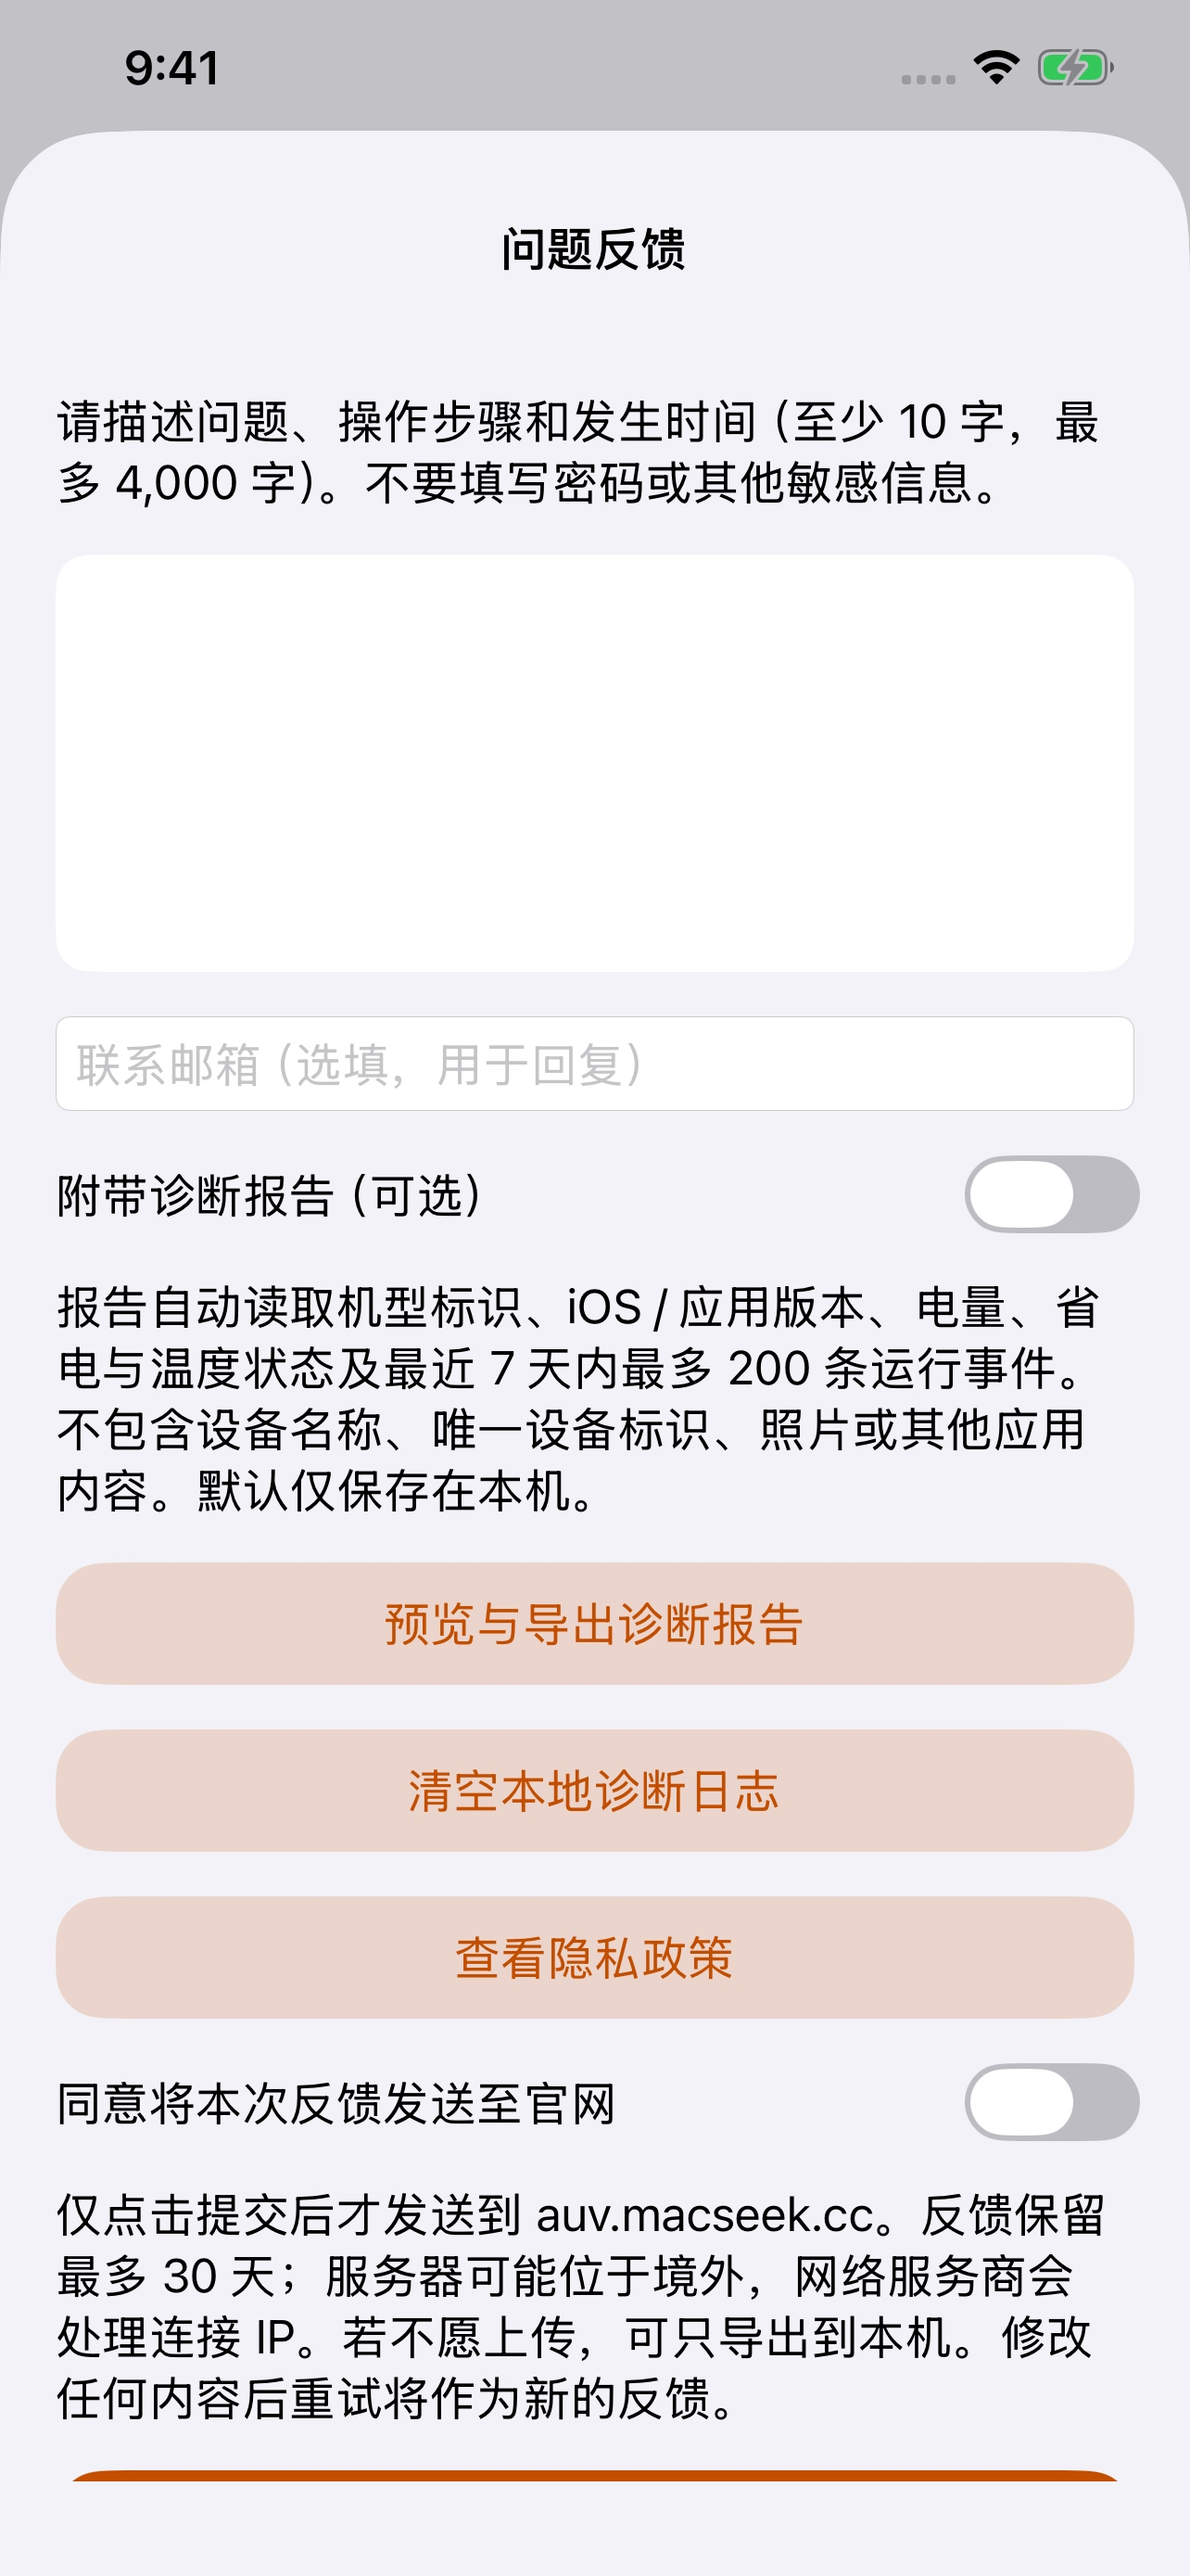
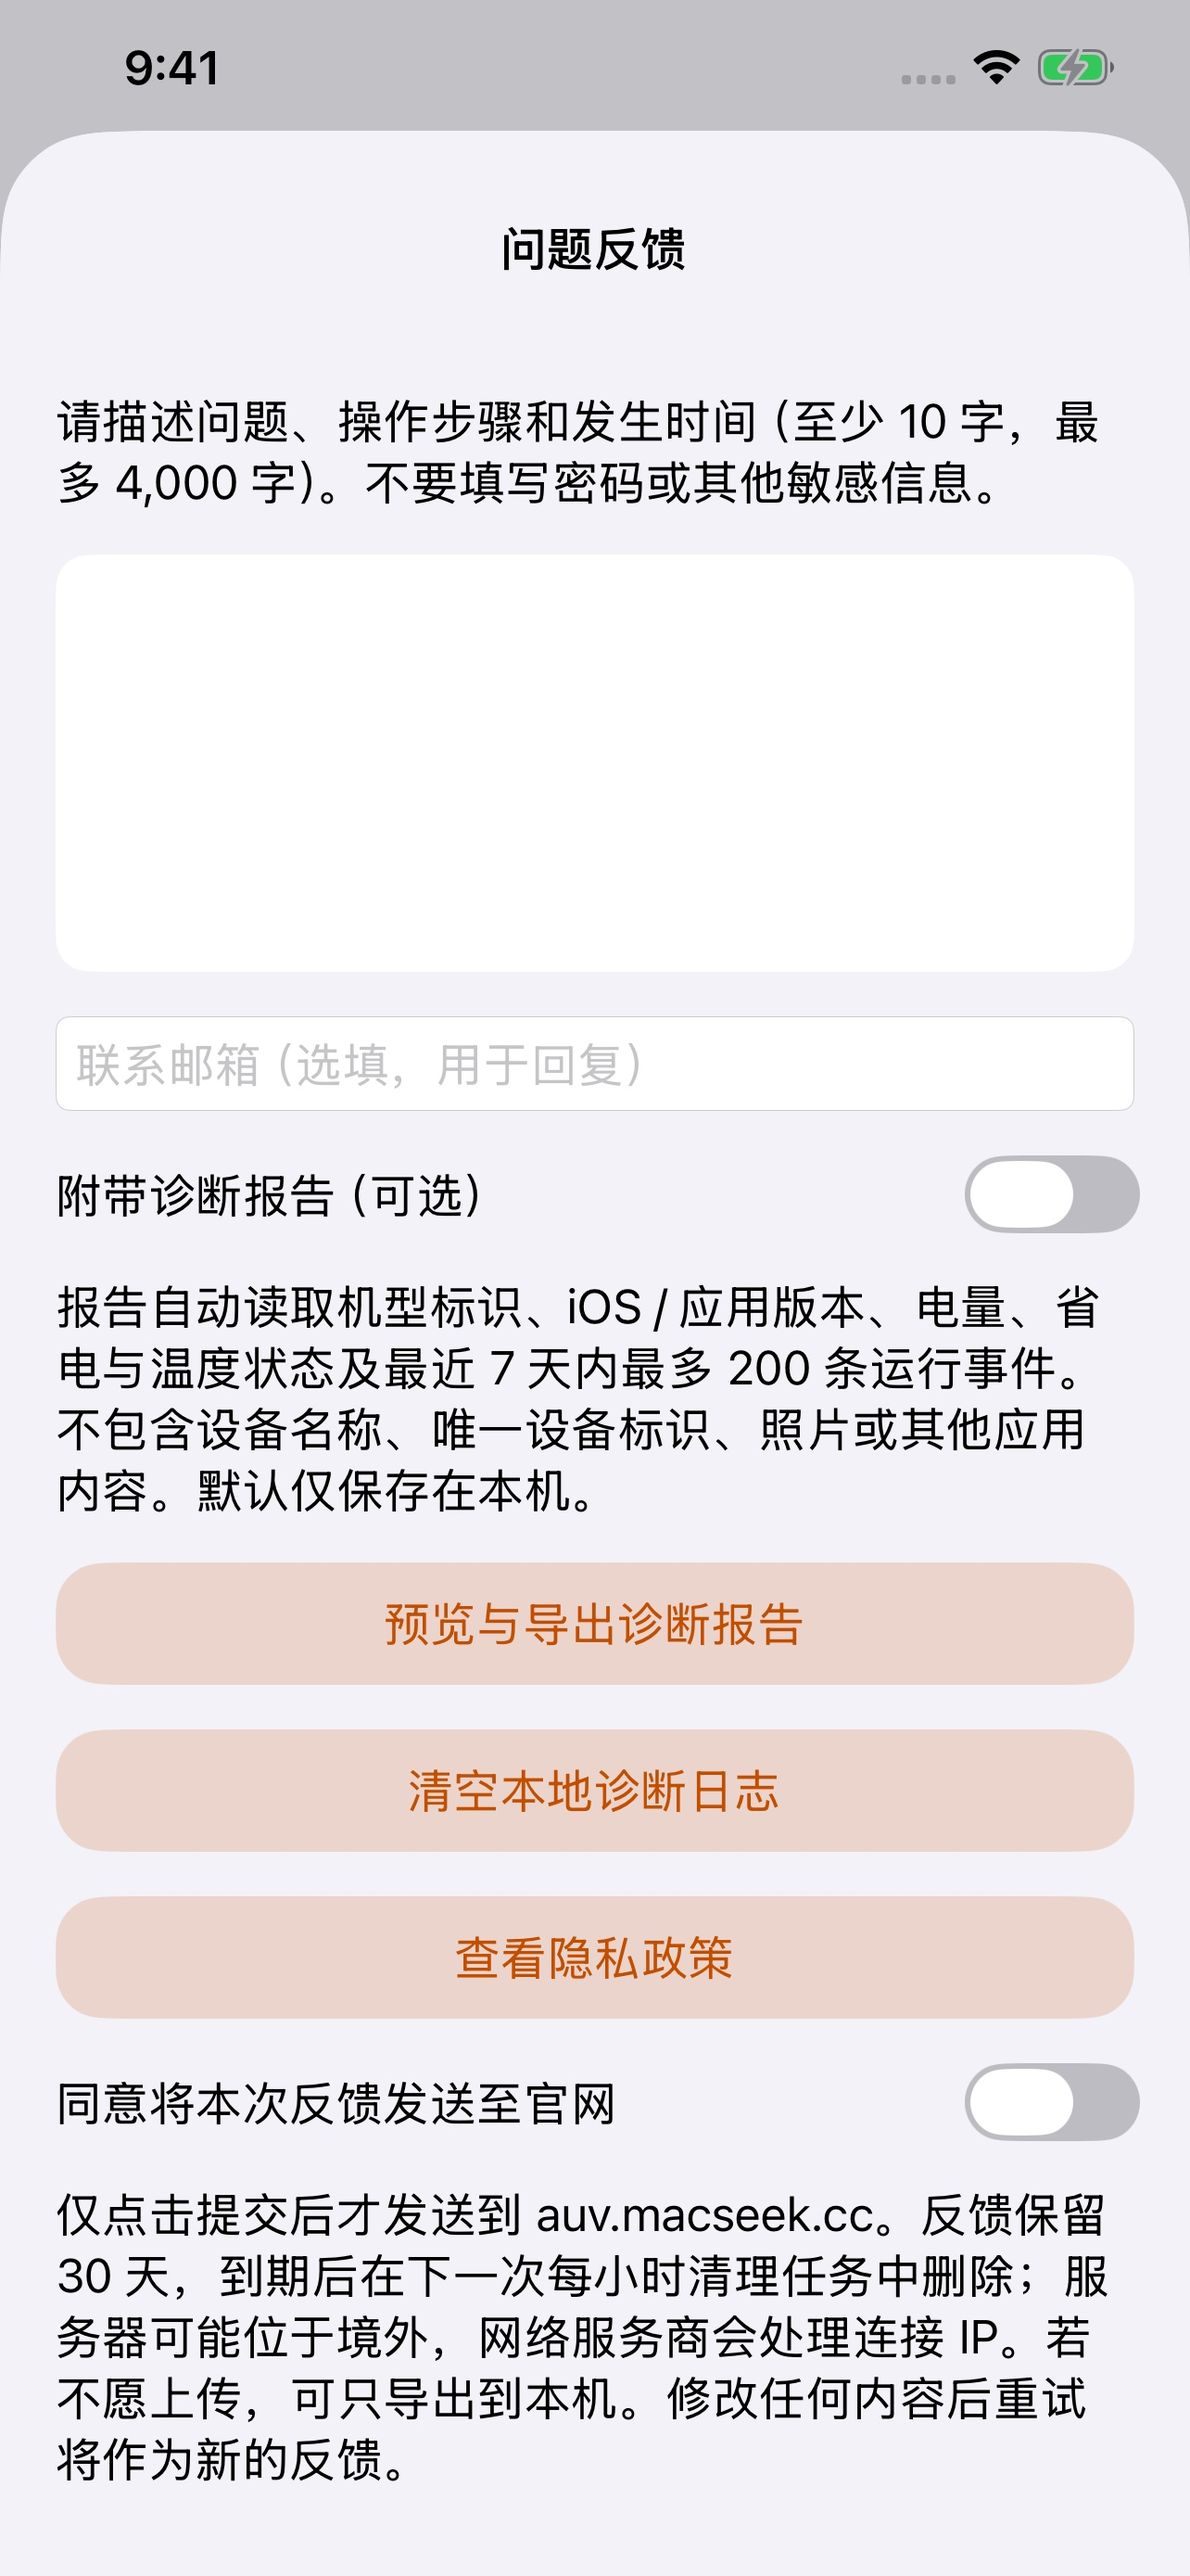
Add feedback network check and update release materials
Clarify 30-day feedback retention, disable all form controls during submission, bump the iOS build, refresh screenshots, and document release status and evidence.

Changed region(s): [[0.0312, 0.8668, 0.9346, 0.9906]]

diff --git a/Tests/feedback-network.swift b/Tests/feedback-network.swift
@@ -1,0 +1,33 @@
+import Foundation
+
+@main
+struct FeedbackNetworkCheck {
+    static func main() async throws {
+        let id = UUID().uuidString.lowercased()
+        let base = URL(string: "https://auv.macseek.cc")!
+        func post(_ path: String, _ body: [String: Any]) async throws -> (Int, Data) {
+            var request = URLRequest(url: base.appendingPathComponent(path))
+            request.httpMethod = "POST"
+            request.timeoutInterval = 20
+            request.setValue("application/json", forHTTPHeaderField: "Content-Type")
+            request.httpBody = try JSONSerialization.data(withJSONObject: body)
+            let (data, response) = try await URLSession.shared.data(for: request)
+            return ((response as! HTTPURLResponse).statusCode, data)
+        }
+        let payload: [String: Any] = ["id": id, "message": "Synthetic URLSession integration verification, safe to delete.", "email": "", "consent": true]
+        do {
+            for _ in 0..<2 {
+                let (status, data) = try await post("api/feedback", payload)
+                guard status == 201 else { throw NSError(domain: "HTTP", code: status) }
+                let receipt = try JSONSerialization.jsonObject(with: data) as! [String: Any]
+                precondition(receipt["id"] as? String == id)
+            }
+        } catch {
+            _ = try? await post("api/feedback/delete", ["id": id])
+            throw error
+        }
+        let (status, _) = try await post("api/feedback/delete", ["id": id])
+        precondition(status == 200)
+        print("URLSession HTTPS submission, identical retry and synthetic-record deletion passed")
+    }
+}

diff --git a/website/public/feedback.js b/website/public/feedback.js
@@ -21,11 +21,10 @@ file?.addEventListener('change', async () => {
 });
 form?.addEventListener('submit', async event => {
   event.preventDefault();
-  const button = form.querySelector('button[type=submit]');
   const payload = {message: form.message.value.trim(), email: form.email.value.trim(), consent: form.consent.checked, diagnostics: report, website: form.website.value};
   const content = JSON.stringify(payload);
   if (!pending || pending.content !== content) pending = { content, id: crypto.randomUUID() };
-  button.disabled = true;
+  for (const control of form.elements) control.disabled = true;
   status.textContent = '正在发送…';
   status.className = 'status';
   try {
@@ -37,7 +36,7 @@ form?.addEventListener('submit', async event => {
     document.querySelector('#delete-id').value = receipt.id;
     form.reset(); report = null; pending = null; preview.textContent = '';
   } catch (error) { status.className = 'status error'; status.textContent = `${error.message}\n内容已保留，可重试。网络中断时暂无法确认是否收到。`; }
-  finally { button.disabled = false; }
+  finally { for (const control of form.elements) control.disabled = false; }
 });
 document.querySelector('#delete-form')?.addEventListener('submit', async event => {
   event.preventDefault();

diff --git a/iOS/FeedbackViewController.swift b/iOS/FeedbackViewController.swift
@@ -54,7 +54,7 @@ final class FeedbackViewController: UIViewController {
         stack.addArrangedSubview(button("清空本地诊断日志", action: #selector(clear)))
         stack.addArrangedSubview(button("查看隐私政策", action: #selector(privacy)))
         stack.addArrangedSubview(toggleRow("同意将本次反馈发送至官网", control: consent))
-        stack.addArrangedSubview(label("仅点击提交后才发送到 auv.macseek.cc。反馈保留最多 30 天；服务器可能位于境外，网络服务商会处理连接 IP。若不愿上传，可只导出到本机。修改任何内容后重试将作为新的反馈。"))
+        stack.addArrangedSubview(label("仅点击提交后才发送到 auv.macseek.cc。反馈保留 30 天，到期后在下一次每小时清理任务中删除；服务器可能位于境外，网络服务商会处理连接 IP。若不愿上传，可只导出到本机。修改任何内容后重试将作为新的反馈。"))
         submit.configuration = .filled()
         submit.configuration?.title = "提交反馈"
         submit.addTarget(self, action: #selector(send), for: .touchUpInside)

diff --git a/release/README.md b/release/README.md
@@ -21,7 +21,7 @@ App Store 元数据存于 `metadata/app-info` 与 `metadata/version/0.4.0`。审
 
 ## 中国大陆与审核边界
 
-- 运营者：吴凯；支持邮箱：feedback.pluglit@macseek.cc。Apple 团队和法律卖方是 wangwang yang，需由账户持有人确认授权和备案主体的一致性。
+- 运营者：吴凯；支持邮箱：feedback.pluglit@macseek.cc。Apple 团队和法律卖方是 wangwang yang，用户已确认取得账户持有人授权，并计划以吴凯申请的个体工商户主体办理 App 备案；待提供真实工商登记名称和备案结果后核对资料。
 - 用户确认目前没有 App 备案号。必须通过合适的接入服务商办理适用的 App 备案，准备主体身份、负责人联系方式、App 名称、包标识、签名公钥/指纹、域名及服务接入信息等，以实际主管部门/服务商要求为准。网站备案号不能随意替代 App 备案号；不得填造假编号。
 - Cloudflare 全球网络部署不代表已完成中国大陆备案，也不保证国内各网络可达。反馈数据可能存储在境外，已将自愿上传、用途、字段、保留与删除说明加入应用及官网；真实数据出境合规仍需结合运营主体和业务处理。若要求境内存储，需要改用符合要求的境内接入与备案方案。
 - PiP 循环视频用于保持屏幕常亮仍有 Apple 2.5.4 后台用途、4.2 最小功能审核风险。已移除私有 suspend；不会通过隐藏功能、审核开关或虚假说明规避审核。
@@ -39,3 +39,15 @@ App Store 元数据存于 `metadata/app-info` 与 `metadata/version/0.4.0`。审
 Cloudflare Worker `auv-pluglit`，D1 `pluglit-feedback`。仅后台账户可读反馈表；官网没有读取/列举反馈 API。用户凭随机 UUID 编号删除其在线记录。每 IP 每分钟限 10 次，JSON 96 KB 上限，诊断字段白名单，参数化 SQL，关闭 Worker 请求日志。每小时删除超过 30 天的记录（最长会有一个调度周期延迟）；Cloudflare 灾备保留依供应商策略。
 
 读取反馈请在 Cloudflare D1 控制台运行限定范围的查询，避免将用户报告打印到公共日志。没有自动邮件转发；邮箱为用户自愿邮件联系的入口。上线测试只使用合成记录并删除。
+
+## 当前发布状态（2026-10-31）
+
+- App ID：6828947154；bundle ID：local.chargeunlock.ios；版本：0.4.0，最新本地构建 7。
+- 协议阻塞已经解除。API 密钥在钥匙串；Apple Distribution 证书和 App Store profile 已创建，Release 本地签名、归档、导出成功。
+- App Store 已保存中文名称/副标题/描述/关键词/支持与隐私网址、工具分类、4+ 年龄申报、无第三方内容、免费价格、审核联系资料与审核说明。初始版本不能填写 whatsNew；CLI 对此的警告不应通过伪造字段解决。
+- 销售范围暂仅选择中国大陆，不自动扩展新地区；通过后手动发布。没有 App 备案号，未提交审核。
+- 构建 6 曾上传但处理失败：Apple 错误 90534，拒绝 Xcode 27.2 (27B52) / iphoneos27.2 (24B8118)。Apple 官网已列出该正式版，但上传后端当前尚未接受；不能伪造 SDK 标识。构建 7 未重复上传同一不受支持工具链。
+- 官方下载页同时列有 Xcode 27.1 (27A9275)，但本机 Edge 下载被 ERR_BLOCKED_BY_CLIENT 阻断。安装后用 `DEVELOPER_DIR=/Applications/Xcode-27.1.app/Contents/Developer ./build.sh appstore-archive` 重建，勿全局替换当前开发工具链。重新上传需实际核验处理状态。
+- 隐私三项数据用途已保存，用户于 2026-10-31 明确确认发布；最终发布回执见 VALIDATION.md。
+- `./build.sh appstore-screenshots <SIMULATOR_UDID>` 从 Debug 页面入口捕获真实 UI，导出无透明 JPEG。模拟器不能展示有效 PiP；商店仅使用指南和反馈页，主屏“不支持 PiP”截图不上传。
+- `./build.sh feedback-network-check` 向官网提交合成内容，验证 URLSession、重复重试与删除。不要用此脚本发送用户真实诊断资料。
